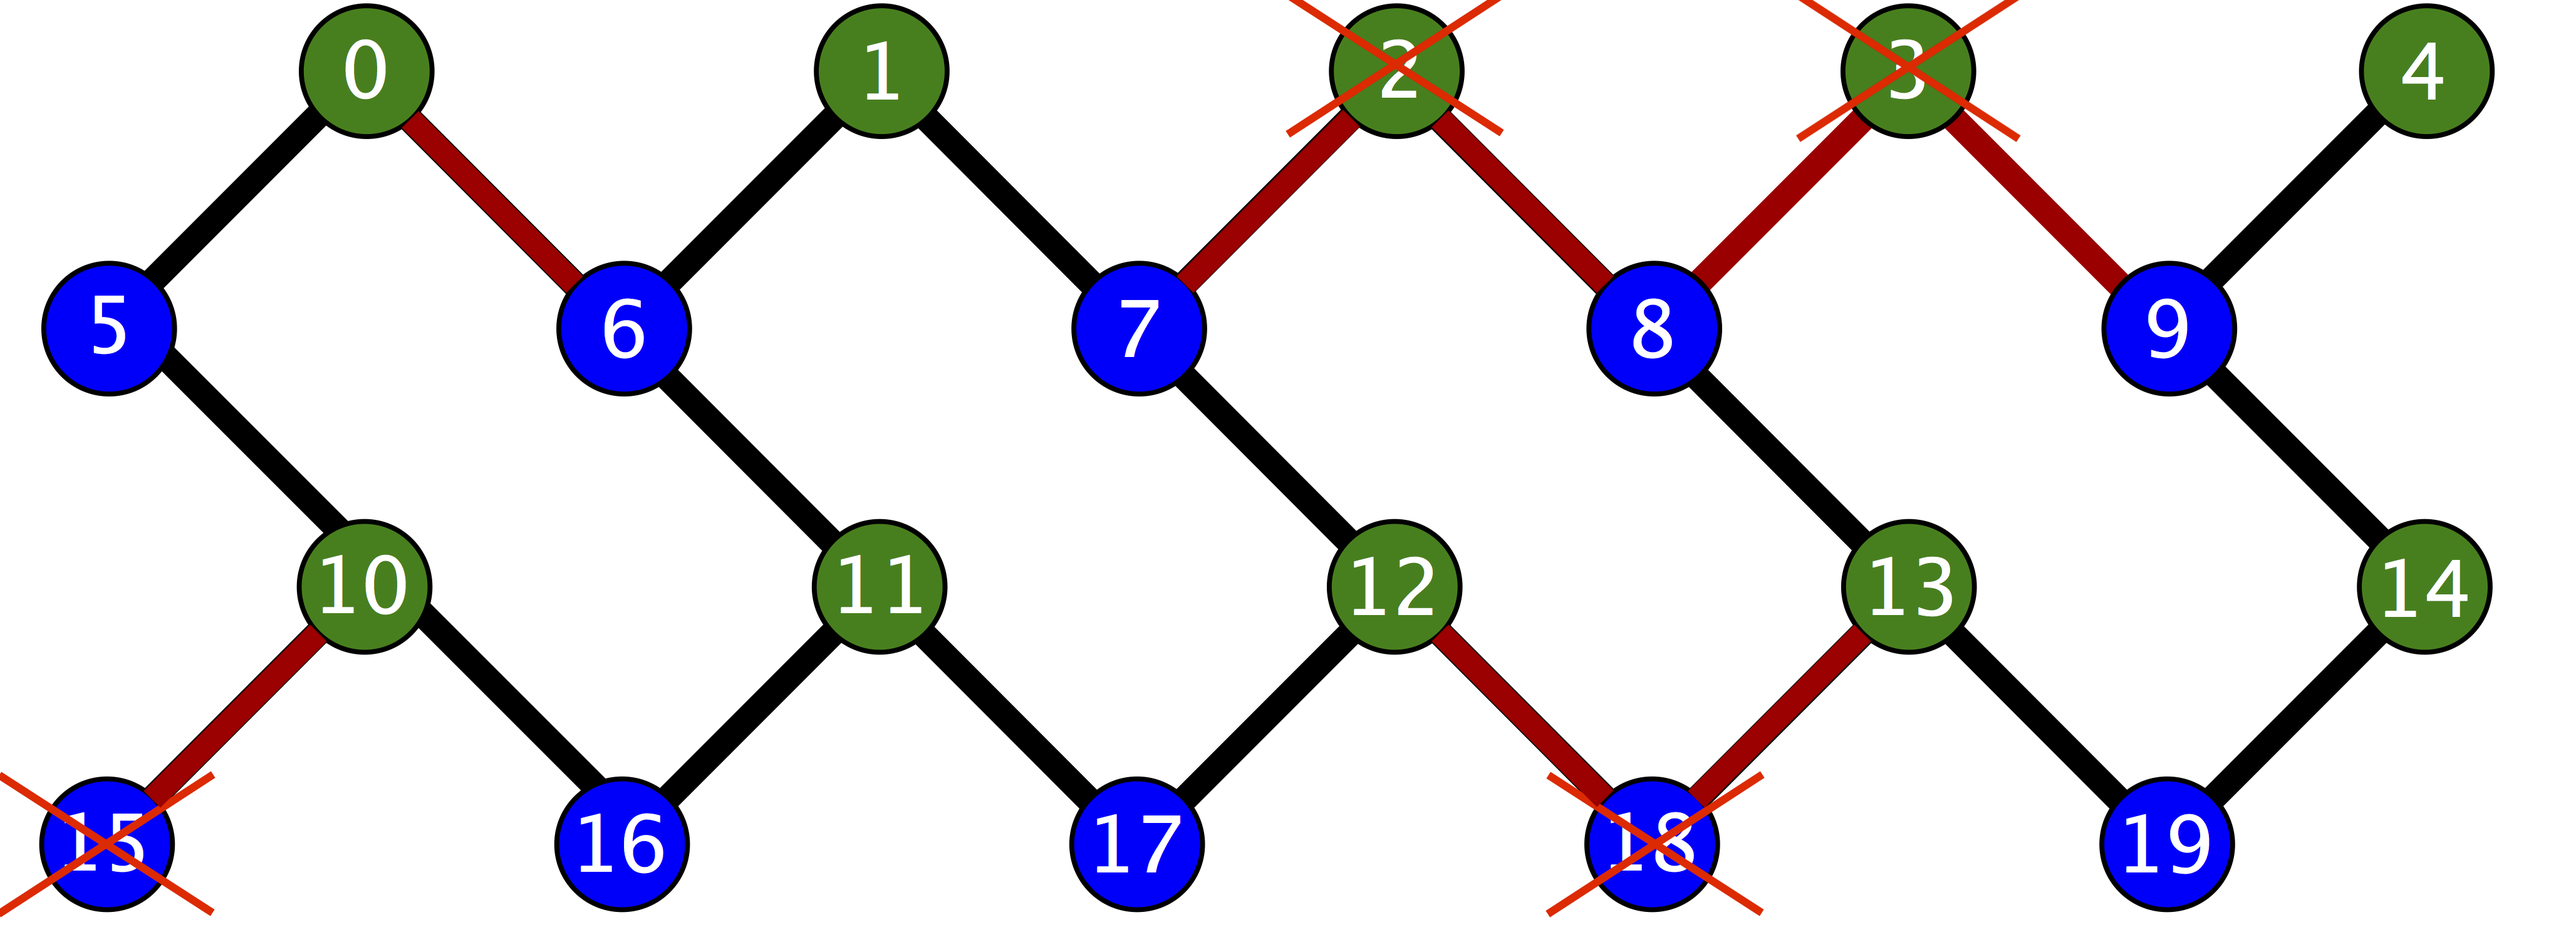
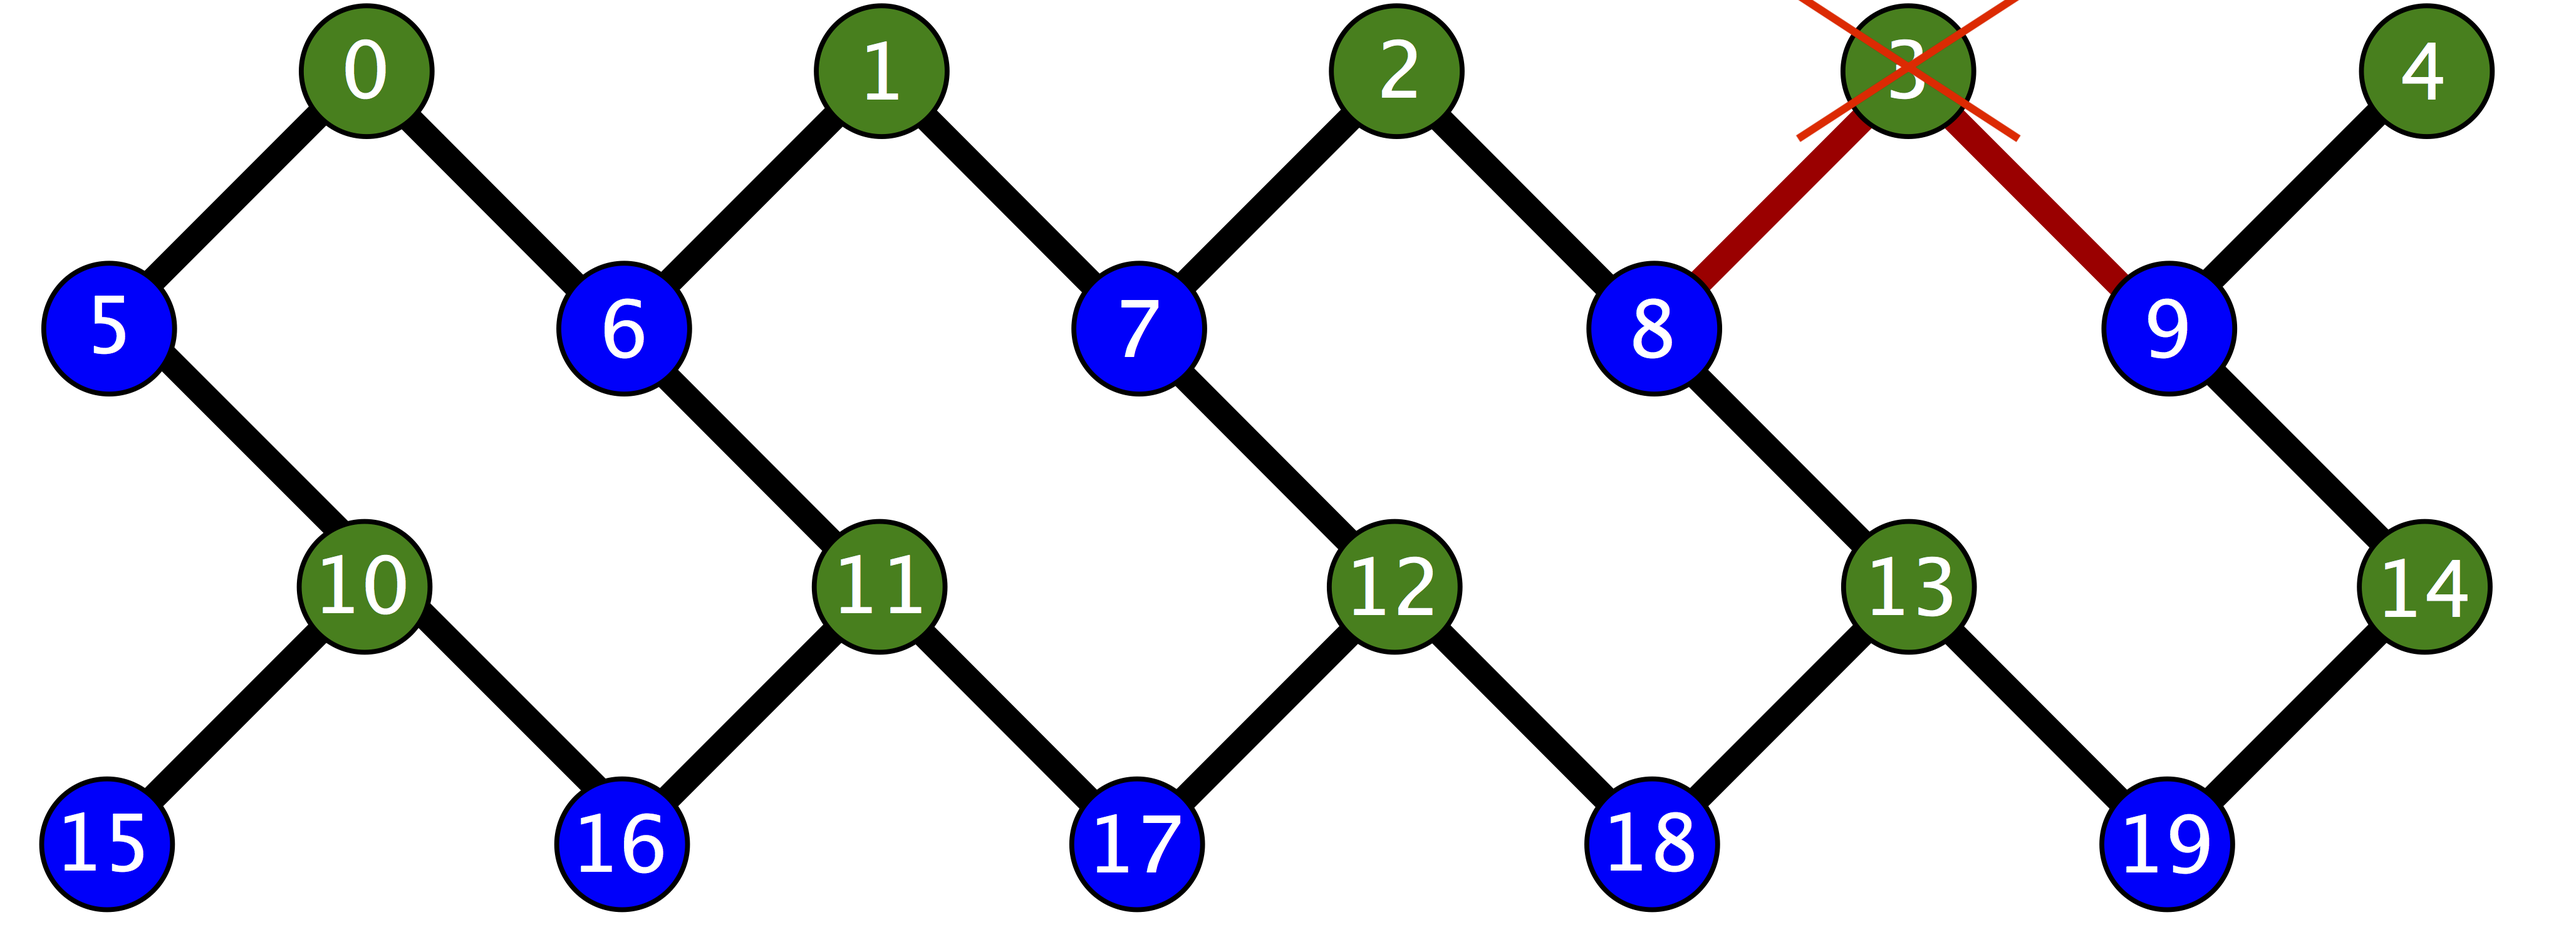
pyquil: used full 19Q specs

diff --git a/docs/source/qpu.rst b/docs/source/qpu.rst
@@ -433,9 +433,8 @@ Single-qubit control is effected by applying microwave drives at the resonator p
 gates are activated via RF drives on the flux bias lines.
 
 Due to a fabrication defect, qubit 3 is not tunable, which prohibits operation of the two-qubit
-parametric gate described below between qubit 3 and its neighbors. Additionally, qubits 2, 15, and
-18 are not accessible. Consequently, we will treat this as a 16-qubit processor. However this chip is
-currently unavailable.
+parametric gate described below between qubit 3 and its neighbors. Consequently, we will treat this as
+a 19-qubit processor. However this chip is currently unavailable.
 
 .. figure:: images/acorn.png
     :width: 540px
@@ -450,56 +449,62 @@ currently unavailable.
     been dropped to produce a lattice with three-fold, rather than four-fold
     connectivity.
 
-Table 1 summarizes the main performance parameters of Rigetti 19Q.
+Table 3 summarizes the main performance parameters of Rigetti 19Q.
 
-.. csv-table:: :math:`\textbf{Table 1 | Rigetti 19Q performance}`
-   :widths: 10, 10, 10, 10, 10, 10, 10
+.. csv-table:: :math:`\textbf{Table 3 | Rigetti 19Q performance}`
+   :widths: 10, 10, 10, 10, 10, 10, 10, 10
    :stub-columns: 1
 
-   ,:math:`\omega^{\textrm{max}}_{\textrm{r}}/2\pi`,:math:`\omega^{\textrm{max}}_{01}/2\pi`,:math:`T_1`,:math:`T^*_2`,:math:`\mathsf{F}_{\textrm{1q}}`,:math:`\mathsf{F}_{\textrm{RO}}`
-   ,:math:`\textrm{MHz}`,:math:`\textrm{MHz}`,:math:`\mu\textrm{s}`,:math:`\mu\textrm{s}`,,
-   0 ,5592,4372,17.98,7.47,0.982,0.918
-   1 ,5703,4257,24.27,8.17,0.983,0.846
-   2 ,5599,3069,8.5,7.47,0.976,0.78
-   3 ,5708,3829,31.0,16.8,0.9908,0.886
-   4 ,5633,4332,18.01,2.79,0.987,0.962
-   5 ,5178,3658,17.76,10.05,0.973,0.932
-   6 ,5356,3789,14.15,10.18,0.983,0.92
-   7 ,5164,3531,11.94,9.08,0.991,0.803
-   8 ,5367,3681,23.7,11.47,0.987,0.948
-   9 ,5201,3665,17.68,10.43,0.992,0.918
-   10,5801,4564,11.17,4.69,0.983,0.824
-   11,5511,4238,20.31,10.3,0.985,0.878
-   12,5825,4569,13.0,8.0,0.97,0.963
-   13,5523,4384,12.2,8.54,0.980,0.954
-   14,5848,4517,18.83,2.98,0.983,0.959
-   15,5093,3716,22,3.0,0.808,0.705
-   16,5298,3816,21.4,11.22,0.989,0.912
-   17,5097,3428,17.34,8.4,0.991,0.87
-   18,5301,3864,14.0,0.1,0.976,0.893
-   19,5108,3535,22.4,9.13,0.987,0.945
+   ,:math:`\omega^{\textrm{max}}_{\textrm{r}}/2\pi`,:math:`\omega^{\textrm{max}}_{01}/2\pi`,:math:`\eta/2\pi`,:math:`T_1`,:math:`T^*_2`,:math:`\mathsf{F}_{\textrm{1q}}`,:math:`\mathsf{F}_{\textrm{RO}}`
+   ,:math:`\textrm{MHz}`,:math:`\textrm{MHz}`,:math:`\textrm{MHz}`,:math:`\mu\textrm{s}`,:math:`\mu\textrm{s}`,,
+   0 ,5592,4386,-208,**15.2** :math:`\pm` 2.5,**7.2** :math:`\pm` 0.7,0.9815,0.938
+   1 ,5703,4292,-210,**17.6** :math:`\pm` 1.7,**7.7** :math:`\pm` 1.4,0.9907,0.958
+   2 ,5599,4221,-142,**18.2** :math:`\pm` 1.1,**10.8** :math:`\pm` 0.6,0.9813,0.97
+   3 ,5708,3829,-224,**31.0** :math:`\pm` 2.6,**16.8** :math:`\pm` 0.8,0.9908,0.886
+   4 ,5633,4372,-220,**23.0** :math:`\pm` 0.5,**5.2** :math:`\pm` 0.2,0.9887,0.953
+   5 ,5178,3690,-224,**22.2** :math:`\pm` 2.1,**11.1** :math:`\pm` 1.0,0.9645,0.965
+   6 ,5356,3809,-208,**26.8** :math:`\pm` 2.5,**26.8** :math:`\pm` 2.5,0.9905,0.84
+   7 ,5164,3531,-216,**29.4** :math:`\pm` 3.8,**13.0** :math:`\pm` 1.2,0.9916,0.925
+   8 ,5367,3707,-208,**24.5** :math:`\pm` 2.8,**13.8** :math:`\pm` 0.4,0.9869,0.947
+   9 ,5201,3690,-214,**20.8** :math:`\pm` 6.2,**11.1** :math:`\pm` 0.7,0.9934,0.927
+   10,5801,4595,-194,**17.1** :math:`\pm` 1.2,**10.6** :math:`\pm` 0.5,0.9916,0.942
+   11,5511,4275,-204,**16.9** :math:`\pm` 2.0,**4.9** :math:`\pm` 1.0,0.9901,0.900
+   12,5825,4600,-194,**8.2**  :math:`\pm` 0.9,**10.9** :math:`\pm` 1.4,0.9902,0.942
+   13,5523,4434,-196,**18.7** :math:`\pm` 2.0,**12.7** :math:`\pm` 0.4,0.9933,0.921
+   14,5848,4552,-204,**13.9** :math:`\pm` 2.2,**9.4** :math:`\pm` 0.7,0.9916,0.947
+   15,5093,3733,-230,**20.8** :math:`\pm` 3.1,**7.3** :math:`\pm` 0.4,0.9852,0.970
+   16,5298,3854,-218,**16.7** :math:`\pm` 1.2,**7.5** :math:`\pm` 0.5,0.9906,0.948
+   17,5097,3574,-226,**24.0** :math:`\pm` 4.2,**8.4** :math:`\pm` 0.4,0.9895,0.921
+   18,5301,3877,-216,**16.9** :math:`\pm` 2.9,**12.9** :math:`\pm` 1.3,0.9496,0.930
+   19,5108,3574,-228,**24.7** :math:`\pm` 2.8,**9.8** :math:`\pm` 0.8,0.9942,0.930
 
+Table 4 shows the two-qubit gate performance of Rigetti 19Q.
 
-Table 2 shows the two-qubit gate performance of Rigetti 19Q.
-
-.. csv-table:: :math:`\textbf{Table 2 | Rigetti 19Q two-qubit gate performance}`
-   :widths: 10, 10, 10, 10
+.. csv-table:: :math:`\textbf{Table 4 | Rigetti 19Q two-qubit gate performance}`
+   :widths: 10, 10, 10, 10, 10
    :stub-columns: 1
 
-   ,:math:`f_\textrm{m}`,:math:`t_\textrm{CZ}`,:math:`\mathsf{F}^\textrm{cptp}_{\textrm{PT}}`
-   ,:math:`\textrm{MHz}`,ns
-   0 - 5, 190,277.35,0.83
-   1 - 6, 129.998,165.99,0.892
-   1 - 7, 92,198.25,0.89
-   4 - 9, 191.8, 190.9,0.871
-   5 - 10, 285.5,131.4,0.813
-   6 - 11, 140,140.18,0.837
-   7 - 12, 235.48,264.12,0.818
-   8 - 13, 167.67,193.11,0.899
-   9 - 14, 221,253.19,0.827
-   10 - 16, 342.5,137.82,0.848
-   11 - 16, 137.37,181.36,0.898
-   11 - 17, 92,200,0.894
-   12 - 17, 214.96,221.41,0.851
-   13 - 19, 163,201.96,0.827
-   14 - 19, 221,253.19,0.8496
+
+   ,:math:`A_0`,:math:`f_\textrm{m}`,:math:`t_\textrm{CZ}`,:math:`\mathsf{F}^\textrm{cptp}_{\textrm{PT}}`
+   ,:math:`\Phi/\Phi_0`,:math:`\textrm{MHz}`,ns
+   0 - 5 ,0.27,94.5,168,0.936
+   0 - 6 ,0.36,123.9,197,0.889
+   1 - 6 ,0.37,137.1,173,0.888
+   1 - 7 ,0.59,137.9,179,0.919
+   2 - 7 ,0.62,87.4,160,0.817
+   2 - 8, 0.23,55.6,189,0.906
+   4 - 9, 0.43,183.6,122,0.854
+   5 - 10,0.60,152.9,145,0.870
+   6 - 11 ,0.38,142.4,180,0.838
+   7 - 12 ,0.60,241.9,214,0.87
+   8 - 13,0.40,152.0,185,0.881
+   9 - 14,0.62,130.8,139,0.872
+   10 - 15,0.53,142.1,154,0.854
+   10 - 16,0.43,170.3,180,0.838
+   11 - 16,0.38,160.6,155,0.891
+   11 - 17,0.29,85.7,207,0.844
+   12 - 17,0.36,177.1,184,0.876
+   12 - 18,0.28,113.9,203,0.886
+   13 - 18,0.24,66.2,152,0.936
+   13 - 19,0.62,109.6,181,0.921
+   14 - 19,0.59,188.1,142,0.797
